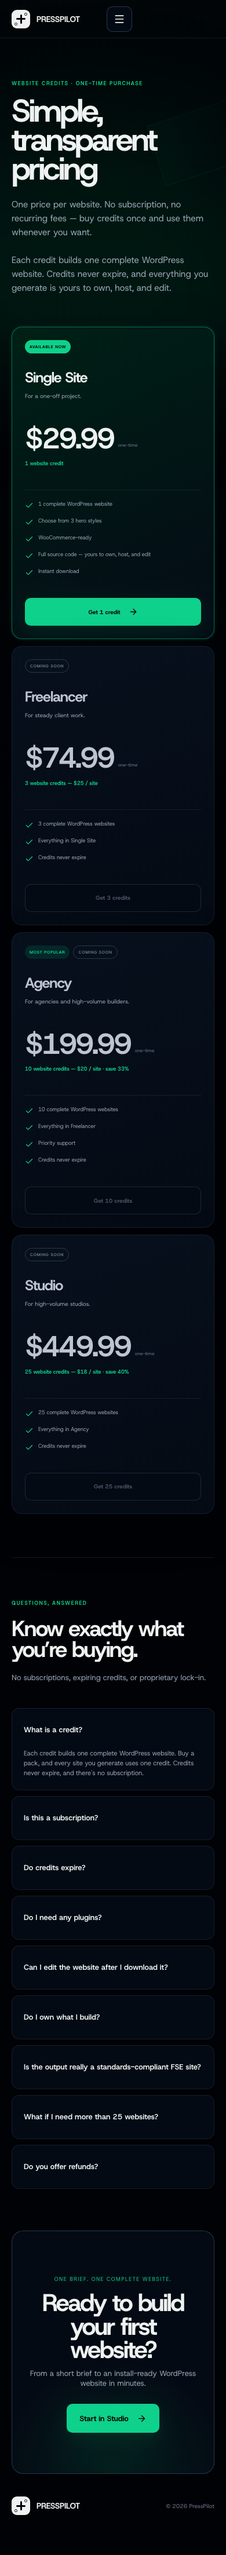
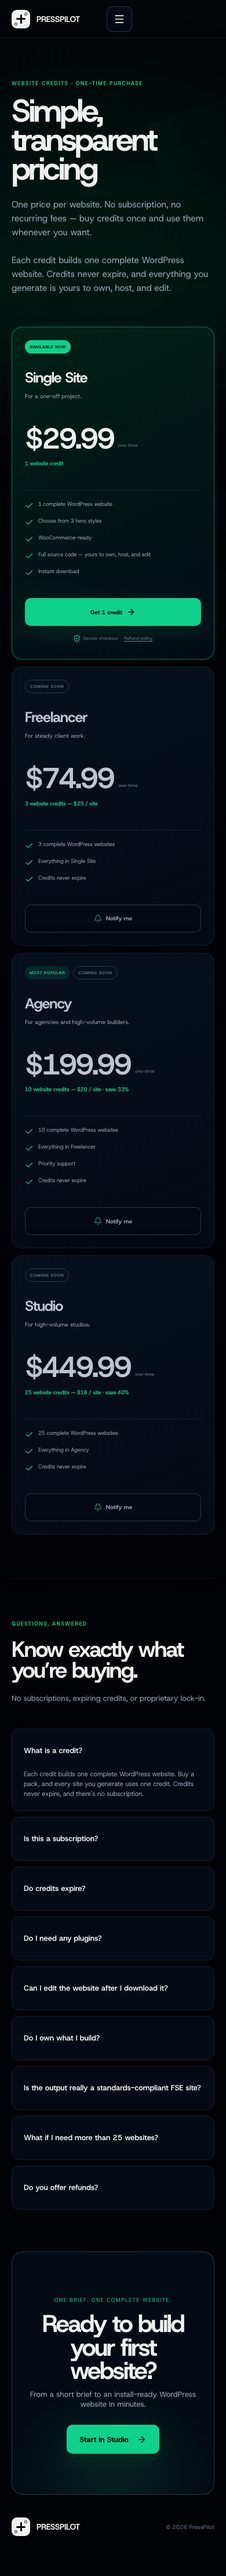
feat: capture pricing pack interest

diff --git a/src/styles/pages.css b/src/styles/pages.css
@@ -10,7 +10,10 @@
 .pricing-tier-card__badges { min-height: 25px; display: flex; flex-wrap: wrap; align-items: start; gap: 6px; }.pricing-tier-card__badges span { min-height: 23px; padding: 0 8px; display: inline-flex; align-items: center; border-radius: 999px; font-size: 7px; font-weight: 760; letter-spacing: .11em; text-transform: uppercase; }.pricing-tier-card__available { background: var(--emerald); color: var(--canvas-deep); }.pricing-tier-card__coming { border: 1px solid var(--line-bright); color: var(--quiet); }.pricing-tier-card__popular { background: oklch(0.69 0.15 165 / .14); color: var(--emerald); }
 .pricing-tier-card header { margin-top: 23px; }.pricing-tier-card h2 { margin: 0; font-size: 25px; letter-spacing: -.045em; }.pricing-tier-card header p { min-height: 36px; margin: 8px 0 0; color: var(--muted); font-size: 10px; line-height: 1.5; }
 .pricing-tier-card__price { margin-top: 24px; display: flex; align-items: end; gap: 8px; }.pricing-tier-card__price strong { font-size: clamp(38px,3.3vw,50px); line-height: .85; letter-spacing: -.07em; white-space: nowrap; }.pricing-tier-card__price span { padding-bottom: 4px; color: var(--quiet); font-size: 8px; }.pricing-tier-card__credits { min-height: 31px; margin: 16px 0 0; color: var(--emerald); font-size: 9px; font-weight: 700; line-height: 1.45; }
-.pricing-tier-card ul { list-style: none; margin: 20px 0 24px; padding: 18px 0 0; display: grid; gap: 13px; border-top: 1px solid var(--line); }.pricing-tier-card li { display: flex; align-items: start; gap: 8px; color: var(--muted); font-size: 9px; line-height: 1.45; }.pricing-tier-card li svg { flex: 0 0 auto; margin-top: 1px; color: var(--emerald); }.pricing-tier-card__action { width: 100%; min-height: 48px; margin-top: auto; display: inline-flex; align-items: center; justify-content: center; border: 1px solid var(--line-bright); border-radius: 10px; background: var(--surface-quiet); color: var(--quiet); font: inherit; font-size: 10px; font-weight: 740; }.pricing-tier-card button.pricing-tier-card__action { cursor: not-allowed; opacity: .68; }.pricing-tier-card .marketing-button.pricing-tier-card__action { border: 0; background: var(--emerald); color: var(--canvas-deep); opacity: 1; }
+.pricing-tier-card ul { list-style: none; margin: 20px 0 24px; padding: 18px 0 0; display: grid; gap: 13px; border-top: 1px solid var(--line); }.pricing-tier-card li { display: flex; align-items: start; gap: 8px; color: var(--muted); font-size: 9px; line-height: 1.45; }.pricing-tier-card li svg { flex: 0 0 auto; margin-top: 1px; color: var(--emerald); }.pricing-tier-card__action { width: 100%; min-height: 48px; margin-top: auto; display: inline-flex; align-items: center; justify-content: center; gap: 7px; border: 1px solid var(--line-bright); border-radius: 10px; background: var(--surface-quiet); color: var(--quiet); font: inherit; font-size: 10px; font-weight: 740; }.pricing-tier-card button.pricing-tier-card__notify { color: var(--muted); cursor: pointer; opacity: 1; transition: border-color .18s var(--ease-out), color .18s var(--ease-out), background .18s var(--ease-out); }.pricing-tier-card button.pricing-tier-card__notify svg { color: var(--emerald); opacity: .72; }.pricing-tier-card button.pricing-tier-card__notify:hover { border-color: oklch(0.68 0.13 165 / .5); background: oklch(0.22 0.04 170 / .45); color: var(--text); }.pricing-tier-card .marketing-button.pricing-tier-card__action { border: 0; background: var(--emerald); color: var(--canvas-deep); opacity: 1; }
+.pricing-tier-card__reassurance { min-height: 27px; margin: 8px 0 -12px; display: flex; align-items: center; justify-content: center; gap: 4px; color: var(--quiet); font-size: 8px; }.pricing-tier-card__reassurance svg { color: var(--emerald); }.pricing-tier-card__reassurance a { color: inherit; text-decoration: underline; text-underline-offset: 2px; }
+.pricing-waitlist { width: 100%; margin-top: auto; padding: 13px; display: grid; grid-template-columns: 1fr auto; gap: 8px; border: 1px solid oklch(0.68 0.13 165 / .28); border-radius: 11px; background: oklch(0.12 0.028 255 / .72); }.pricing-waitlist label { grid-column: 1/-1; color: var(--muted); font-size: 8px; font-weight: 680; }.pricing-waitlist input { min-width: 0; min-height: 46px; padding: 0 11px; border: 1px solid var(--line-bright); border-radius: 8px; background: var(--canvas-deep); color: var(--text); font: inherit; font-size: 10px; outline: 0; }.pricing-waitlist input:focus { border-color: var(--emerald); box-shadow: 0 0 0 3px oklch(0.7 0.15 165 / .1); }.pricing-waitlist__submit { min-height: 46px; padding: 0 12px; display: inline-flex; align-items: center; justify-content: center; gap: 5px; border: 0; border-radius: 8px; background: oklch(0.72 0.16 165 / .14); color: var(--emerald); font: inherit; font-size: 8px; font-weight: 750; cursor: pointer; }.pricing-waitlist > div { grid-column: 1/-1; display: flex; align-items: center; justify-content: space-between; gap: 8px; }.pricing-waitlist > div small { color: var(--quiet); font-size: 7px; }.pricing-waitlist > div button { min-height: 44px; padding: 0 6px; border: 0; background: transparent; color: var(--muted); font: inherit; font-size: 8px; text-decoration: underline; text-underline-offset: 2px; cursor: pointer; }
+.pricing-waitlist-success { min-height: 76px; margin-top: auto; padding: 14px; display: flex; align-items: start; gap: 9px; border: 1px solid oklch(0.7 0.15 165 / .32); border-radius: 11px; background: oklch(0.23 0.06 165 / .3); color: var(--emerald); }.pricing-waitlist-success > svg { flex: 0 0 auto; }.pricing-waitlist-success strong, .pricing-waitlist-success small { display: block; }.pricing-waitlist-success strong { font-size: 9px; }.pricing-waitlist-success small { margin-top: 4px; color: var(--muted); font-size: 8px; line-height: 1.4; }
 .page-section { width: min(1200px, calc(100% - 64px)); margin: 0 auto; padding: 100px 0; border-top: 1px solid var(--line); }.page-section__intro { display: grid; grid-template-columns: 1fr minmax(280px, 400px); gap: 20px 70px; align-items: end; margin-bottom: 42px; }.page-section__intro > span { grid-column: 1 / -1; margin: 0; }.page-section__intro h2 { margin: 0; font-size: clamp(38px, 4.6vw, 62px); line-height: .96; letter-spacing: -.055em; }.page-section__intro > p { margin: 0; color: var(--muted); font-size: 13px; line-height: 1.55; }
 .inclusion-atlas { display: grid; grid-template-columns: repeat(3,1fr); gap: 12px; }.inclusion-atlas article { min-height: 225px; padding: 25px; border: 1px solid var(--line); border-radius: 15px; background: linear-gradient(145deg,var(--surface-quiet),oklch(0.12 0.025 255)); }.inclusion-atlas svg { color: var(--emerald); }.inclusion-atlas h3 { margin: 64px 0 9px; font-size: 16px; }.inclusion-atlas p { margin: 0; color: var(--muted); font-size: 11px; line-height: 1.55; }
 .pricing-faq { padding-bottom: 110px; }.faq-grid { display: grid; grid-template-columns: 1fr 1fr; gap: 10px; }.faq-grid details { min-height: 76px; padding: 0 20px; border: 1px solid var(--line); border-radius: 13px; background: var(--surface-quiet); }.faq-grid summary { min-height: 74px; display: flex; align-items: center; cursor: pointer; font-size: 13px; font-weight: 650; }.faq-grid p { margin: -5px 0 20px; color: var(--muted); font-size: 11px; line-height: 1.55; }.faq-grid p a { color: var(--emerald); text-decoration: underline; text-underline-offset: 3px; }
@@ -21,4 +24,4 @@
 .project-atlas { display: grid; grid-template-columns: repeat(3,1fr); gap: 14px; }.project-card { overflow: hidden; border: 1px solid var(--line-bright); border-radius: 16px; background: linear-gradient(180deg,var(--surface),var(--surface-quiet)); box-shadow: 0 22px 60px #0004; }.project-card__preview { position: relative; aspect-ratio: 1.63; overflow: hidden; background: var(--canvas); }.project-card__preview img { width: 100%; height: 100%; display: block; object-fit: cover; }.project-card__preview > span { position: absolute; inset-inline-end: 12px; inset-block-end: 12px; padding: 7px 9px; border: 1px solid #ffffff2e; border-radius: 999px; background: #07101dd9; color: #fff; font-size: 8px; backdrop-filter: blur(8px); }.project-card__body { padding: 20px; }.project-card__status { display: flex; align-items: center; gap: 7px; color: var(--emerald); font-size: 8px; text-transform: uppercase; letter-spacing: .12em; }.project-card__status i { width: 6px; height: 6px; border-radius: 50%; background: currentColor; box-shadow: 0 0 0 4px oklch(0.65 0.15 160 / .1); }.project-card h2 { margin: 13px 0 4px; font-size: 21px; letter-spacing: -.035em; }.project-card p, .project-card small { color: var(--quiet); font-size: 10px; }.project-card p { margin: 0 0 5px; }.project-card__body > div:last-child { margin-top: 23px; padding-top: 16px; display: flex; justify-content: space-between; align-items: center; border-top: 1px solid var(--line); }.project-card__body > div:last-child a { min-height: 44px; display: inline-flex; align-items: center; gap: 8px; color: var(--text); font-size: 11px; font-weight: 680; }.project-card button { width: 44px; height: 44px; display: grid; place-items: center; border: 1px solid var(--line); border-radius: 9px; background: var(--surface-quiet); color: var(--muted); cursor: pointer; }
 @media (max-width: 1100px) { .pricing-tier-grid { grid-template-columns: 1fr 1fr; }.pricing-tier-card { min-height: 500px; }.pricing-tier-card__price strong { font-size: 50px; } }
 @media (max-width: 900px) { .signin-layout { grid-template-columns: 1fr; gap: 55px; }.signin-card { width: min(500px,100%); }.project-atlas { grid-template-columns: 1fr 1fr; }.inclusion-atlas { grid-template-columns: 1fr 1fr; }.page-section__intro { grid-template-columns: 1fr; } }
-@media (max-width: 650px) { .page-hero { width: calc(100% - 40px); padding: 72px 0 55px; text-align: start; }.page-hero h1 { font-size: clamp(49px,14vw,65px); }.page-hero h1 em { display: inline; }.page-hero--pricing > p:not(.page-eyebrow) { margin-inline: 0; }.pricing-tier-grid, .page-section, .signin-layout, .projects-page { width: calc(100% - 40px); }.pricing-tier-grid { grid-template-columns: 1fr; margin-bottom: 75px; }.pricing-tier-card { min-height: 0; }.pricing-tier-card__price strong { font-size: 50px; }.pricing-tier-card__action { margin-top: 12px; }.inclusion-atlas, .faq-grid, .project-atlas, .dashboard-summary { grid-template-columns: 1fr; }.page-section { padding: 72px 0; }.signin-layout { padding: 60px 0; }.signin-context h1 { font-size: 58px; }.signin-card { padding: 24px 20px; }.projects-page { padding-top: 38px; }.projects-heading { align-items: start; flex-direction: column; gap: 25px; }.projects-heading .primary-action { width: 100%; justify-content: center; }.dashboard-summary > div { border-inline-end: 0; border-bottom: 1px solid var(--line); }.dashboard-summary > div:last-child { border-bottom: 0; } }
+@media (max-width: 650px) { .page-hero { width: calc(100% - 40px); padding: 72px 0 55px; text-align: start; }.page-hero h1 { font-size: clamp(49px,14vw,65px); }.page-hero h1 em { display: inline; }.page-hero--pricing > p:not(.page-eyebrow) { margin-inline: 0; }.pricing-tier-grid, .page-section, .signin-layout, .projects-page { width: calc(100% - 40px); }.pricing-tier-grid { grid-template-columns: 1fr; margin-bottom: 75px; }.pricing-tier-card { min-height: 0; }.pricing-tier-card__price strong { font-size: 50px; }.pricing-tier-card__action { margin-top: 12px; }.pricing-waitlist { margin-top: 12px; grid-template-columns: 1fr; }.pricing-waitlist label, .pricing-waitlist > div { grid-column: 1; }.pricing-tier-card__reassurance { margin-bottom: 0; }.inclusion-atlas, .faq-grid, .project-atlas, .dashboard-summary { grid-template-columns: 1fr; }.page-section { padding: 72px 0; }.signin-layout { padding: 60px 0; }.signin-context h1 { font-size: 58px; }.signin-card { padding: 24px 20px; }.projects-page { padding-top: 38px; }.projects-heading { align-items: start; flex-direction: column; gap: 25px; }.projects-heading .primary-action { width: 100%; justify-content: center; }.dashboard-summary > div { border-inline-end: 0; border-bottom: 1px solid var(--line); }.dashboard-summary > div:last-child { border-bottom: 0; } }

diff --git a/src/components/PricingPage.tsx b/src/components/PricingPage.tsx
@@ -1,4 +1,5 @@
-import { ArrowRight, Check } from "lucide-react";
+import { useState } from "react";
+import { ArrowRight, Bell, Check, CheckCircle2, ShieldCheck } from "lucide-react";
 import { PublicPageShell } from "./PublicPageShell";
 
 const tiers = [
@@ -57,6 +58,9 @@ const faqs = [
 ] as const;
 
 export function PricingPage() {
+  const [openWaitlist, setOpenWaitlist] = useState<string | null>(null);
+  const [joinedWaitlists, setJoinedWaitlists] = useState<string[]>([]);
+
   return <PublicPageShell mainId="pricing-content" skipLabel="Skip to pricing" footerCta={{ eyebrow: "One brief. One complete website.", heading: "Ready to build your first website?", copy: "From a short brief to an install-ready WordPress website in minutes." }}>
     <section className="page-hero page-hero--pricing">
       <p className="page-eyebrow">Website credits · One-time purchase</p>
@@ -75,15 +79,27 @@ export function PricingPage() {
         <div className="pricing-tier-card__price"><strong>{tier.price}</strong><span>one-time</span></div>
         <p className="pricing-tier-card__credits">{tier.creditLine}</p>
         <ul>{tier.features.map((feature) => <li key={feature}><Check size={15} /> <span>{feature}</span></li>)}</ul>
-        {tier.available
-          ? <a className="marketing-button pricing-tier-card__action" href="/studio?step=details">{tier.action} <ArrowRight size={16} /></a>
-          : <button className="pricing-tier-card__action" type="button" disabled>{tier.action}</button>}
+        {tier.available ? <>
+          <a className="marketing-button pricing-tier-card__action" href="/studio?step=details">{tier.action} <ArrowRight size={16} /></a>
+          <p className="pricing-tier-card__reassurance"><ShieldCheck size={13} /> Secure checkout <span>·</span> <a href="#refund-policy">Refund policy</a></p>
+        </> : joinedWaitlists.includes(tier.name) ? <div className="pricing-waitlist-success" role="status">
+          <CheckCircle2 size={18} /><span><strong>You’re on the {tier.name} waitlist.</strong><small>We’ll email you when this credit pack is ready.</small></span>
+        </div> : openWaitlist === tier.name ? <form className="pricing-waitlist" onSubmit={(event) => {
+          event.preventDefault();
+          setJoinedWaitlists((current) => [...current, tier.name]);
+          setOpenWaitlist(null);
+        }}>
+          <label htmlFor={`waitlist-${tier.name}`}>Email for {tier.name} updates</label>
+          <input id={`waitlist-${tier.name}`} name="email" type="email" autoComplete="email" placeholder="you@company.com" autoFocus required />
+          <button className="pricing-waitlist__submit" type="submit" aria-label={`Join ${tier.name} waitlist`}>Join waitlist <ArrowRight size={14} /></button>
+          <div><small>Pack updates only. No spam.</small><button type="button" onClick={() => setOpenWaitlist(null)}>Not now</button></div>
+        </form> : <button className="pricing-tier-card__action pricing-tier-card__notify" type="button" aria-label={`Notify me about ${tier.name}`} onClick={() => setOpenWaitlist(tier.name)}><Bell size={14} /> Notify me</button>}
       </article>)}
     </section>
 
     <section className="pricing-faq page-section">
       <div className="page-section__intro"><span>Questions, answered</span><h2>Know exactly what you’re buying.</h2><p>No subscriptions, expiring credits, or proprietary lock-in.</p></div>
-      <div className="faq-grid">{faqs.map(([question, answer], index) => <details open={index === 0} key={question}><summary>{question}</summary><p>{answer}</p></details>)}</div>
+      <div className="faq-grid">{faqs.map(([question, answer], index) => <details id={question === "Do you offer refunds?" ? "refund-policy" : undefined} open={index === 0} key={question}><summary>{question}</summary><p>{answer}</p></details>)}</div>
     </section>
 
   </PublicPageShell>;

diff --git a/src/components/PublicPages.test.tsx b/src/components/PublicPages.test.tsx
@@ -1,9 +1,9 @@
-import { render, screen } from "@testing-library/react";
+import { fireEvent, render, screen } from "@testing-library/react";
 import { PricingPage } from "./PricingPage";
 import { ProjectsPage } from "./ProjectsPage";
 import { SignInPage } from "./SignInPage";
 
-test("presents all credit packs with only Single Site available at launch", () => {
+test("presents one live purchase and tier-specific waitlist capture for upcoming packs", () => {
   render(<PricingPage />);
   expect(screen.getByRole("heading", { name: "Simple, transparent pricing" })).toBeInTheDocument();
   for (const tier of ["Single Site", "Freelancer", "Agency", "Studio"]) {
@@ -14,14 +14,22 @@ test("presents all credit packs with only Single Site available at launch", () =
   }
 
   expect(screen.getByRole("link", { name: "Get 1 credit" })).toHaveAttribute("href", "/studio?step=details");
-  for (const label of ["Get 3 credits", "Get 10 credits", "Get 25 credits"]) {
-    expect(screen.getByRole("button", { name: label })).toBeDisabled();
+  expect(screen.getByText(/Secure checkout/)).toBeInTheDocument();
+  expect(screen.getByRole("link", { name: "Refund policy" })).toHaveAttribute("href", "#refund-policy");
+  for (const tier of ["Freelancer", "Agency", "Studio"]) {
+    expect(screen.getByRole("button", { name: `Notify me about ${tier}` })).toBeEnabled();
   }
   expect(screen.getAllByText("Coming soon")).toHaveLength(3);
   expect(screen.getByText("Most popular")).toBeInTheDocument();
   expect(screen.getByText(/Credits never expire, and there's no subscription\./)).toBeInTheDocument();
   expect(screen.getByText("Is the output really a standards-compliant FSE site?")).toBeInTheDocument();
   expect(screen.getAllByRole("link", { name: /Start in Studio/ }).some((link) => link.getAttribute("href") === "/studio?step=details")).toBe(true);
+
+  fireEvent.click(screen.getByRole("button", { name: "Notify me about Agency" }));
+  const email = screen.getByRole("textbox", { name: "Email for Agency updates" });
+  fireEvent.change(email, { target: { value: "owner@example.com" } });
+  fireEvent.click(screen.getByRole("button", { name: "Join Agency waitlist" }));
+  expect(screen.getByRole("status")).toHaveTextContent("on the Agency waitlist");
 });
 
 test("gives returning users an accessible sign-in form", () => {

diff --git a/tests/complete-pages.spec.ts b/tests/complete-pages.spec.ts
@@ -50,13 +50,18 @@ test("key page and Studio controls meet the 44px target gate", async ({ page }) 
   expect((await page.getByRole("button", { name: "Sign in" }).boundingBox())!.height).toBeGreaterThanOrEqual(44);
 });
 
-test("pricing exposes one live credit pack and three disabled launch packs", async ({ page }) => {
+test("pricing exposes one live purchase and captures upcoming-pack interest", async ({ page }) => {
   await page.goto("/pricing");
   await expect(page.getByRole("link", { name: "Get 1 credit" })).toHaveAttribute("href", "/studio?step=details");
-  for (const label of ["Get 3 credits", "Get 10 credits", "Get 25 credits"]) {
-    await expect(page.getByRole("button", { name: label })).toBeDisabled();
+  await expect(page.getByText(/Secure checkout/)).toBeVisible();
+  for (const tier of ["Freelancer", "Agency", "Studio"]) {
+    await expect(page.getByRole("button", { name: `Notify me about ${tier}` })).toBeEnabled();
   }
   await expect(page.getByText("Coming soon")).toHaveCount(3);
+  await page.getByRole("button", { name: "Notify me about Agency" }).click();
+  await page.getByRole("textbox", { name: "Email for Agency updates" }).fill("owner@example.com");
+  await page.getByRole("button", { name: "Join Agency waitlist" }).click();
+  await expect(page.getByRole("status")).toContainText("on the Agency waitlist");
 });
 
 test("Step 2 shows generation progress before replacing the PressPilot preview", async ({ page }) => {

diff --git a/tests/complete-pages-visual.spec.ts b/tests/complete-pages-visual.spec.ts
@@ -32,3 +32,14 @@ for (const [name, url, heading, width, height] of captures) {
     await page.screenshot({ path: `${outputDirectory}/${name}.png`, fullPage: true });
   });
 }
+
+test("captures app-pricing-waitlist", async ({ page }) => {
+  await page.setViewportSize({ width: 1440, height: 1000 });
+  await page.goto("/pricing", { waitUntil: "networkidle" });
+  await page.evaluate(() => document.fonts.ready);
+  await page.getByRole("button", { name: "Notify me about Agency" }).click();
+  await page.evaluate(() => { (document.activeElement as HTMLElement | null)?.blur(); window.scrollTo(0, 0); });
+  await page.addStyleTag({ content: "*,*::before,*::after{animation:none!important;transition:none!important}" });
+  await expect(page.getByRole("textbox", { name: "Email for Agency updates" })).toBeVisible();
+  await page.screenshot({ path: `${outputDirectory}/app-pricing-waitlist.png`, fullPage: true });
+});

diff --git a/docs/handoff/PRESSPILOT_COMPLETE_UI_CODING_AGENT_HANDOFF.md b/docs/handoff/PRESSPILOT_COMPLETE_UI_CODING_AGENT_HANDOFF.md
@@ -1,6 +1,6 @@
 # PressPilot Complete UI — Coding Agent Handoff
 
-**Version:** 1.1
+**Version:** 1.2
 **Date:** 2026-07-19  
 **Prototype repository:** `Odjango/PressPilot-new-UI`  
 **Prototype branch:** `agent/studio-refine-prototype`
@@ -33,7 +33,7 @@ PressPilot prepares:
 
 The buyer can install the website on a compatible WordPress host, edit it with WordPress Full Site Editing, and own the delivered website.
 
-Commercial model: **one credit builds one complete website · credits never expire · no subscription**. At launch, only **Single Site — $29.99 for one credit** is purchasable. Freelancer, Agency, and Studio packs are visible but disabled as Coming soon.
+Commercial model: **one credit builds one complete website · credits never expire · no subscription**. At launch, only **Single Site — $29.99 for one credit** is purchasable. Freelancer, Agency, and Studio remain Coming soon and collect tier-specific waitlist interest through `Notify me`.
 
 ## 3. Terminology
 
@@ -66,7 +66,7 @@ The word `theme` may remain only where WordPress technical internals require it,
 | URL | Component | Visual capture |
 | --- | --- | --- |
 | `/` | `MarketingHome` | `artifacts/screenshots/presspilot-home-desktop.png` |
-| `/pricing` | `PricingPage` | `artifacts/screenshots/app-pricing-desktop.png`, `app-pricing-mobile.png` |
+| `/pricing` | `PricingPage` | `artifacts/screenshots/app-pricing-desktop.png`, `app-pricing-mobile.png`, `app-pricing-waitlist.png` |
 | `/signin` | `SignInPage` | `artifacts/screenshots/app-signin-desktop.png` |
 | `/projects` | `ProjectsPage` | `artifacts/screenshots/app-projects-desktop.png` |
 | `/studio?step=details` | `BusinessDetailsWorkspace` | `artifacts/screenshots/studio-step-1-business-details.png` |
@@ -186,7 +186,7 @@ The prototype uses local state and sample data. Connect these seams to productio
 | Sign in | Production authentication and password recovery |
 | Projects page | Production project query, statuses, and permissions |
 | Single Site “Get 1 credit” | Production one-credit checkout and entitlement flow |
-| Freelancer, Agency, Studio actions | Keep disabled and visibly Coming soon for launch; do not attach checkout handlers |
+| Freelancer, Agency, Studio `Notify me` | Production waitlist endpoint; submit email, requested pack, source page, and consent timestamp without granting credits or starting checkout |
 
 Do not replace the current production gallery-preview system with the prototype miniature. The approved Studio preview surface should be connected to that system after visual migration, as the user explicitly requested.
 
@@ -197,12 +197,15 @@ Public primary CTA: **Start in Studio**.
 Pricing launch contract:
 
 - Single Site — $29.99 one-time — 1 credit — active `Get 1 credit` purchase action
-- Freelancer — $74.99 one-time — 3 credits — Coming soon, disabled
-- Agency — $199.99 one-time — 10 credits — Most popular + Coming soon, disabled
-- Studio — $449.99 one-time — 25 credits — Coming soon, disabled
+- Freelancer — $74.99 one-time — 3 credits — Coming soon with `Notify me`
+- Agency — $199.99 one-time — 10 credits — Most popular + Coming soon with `Notify me`
+- Studio — $449.99 one-time — 25 credits — Coming soon with `Notify me`
 - One credit creates one complete website.
 - Credits never expire.
 - There is no subscription and no automatic renewal.
+- `Notify me` opens an inline, tier-specific email form. It must never initiate checkout or imply the pack is available.
+- Successful capture confirms the exact requested tier in place. Production must handle duplicate addresses, API failure, consent logging, and retry without losing the entered address.
+- The Single Site action retains `Secure checkout · Refund policy` directly beneath `Get 1 credit`.
 
 Use contextual internal actions:
 
@@ -344,6 +347,7 @@ Not implemented in this UI repository:
 - Database persistence
 - Logo upload/storage
 - Checkout or entitlement wiring (the Single Site control is visually active but remains a prototype route)
+- Waitlist persistence or email delivery (the prototype demonstrates the complete capture and success states locally)
 - Production website generation
 - Generation failure/retry handling
 - Real ZIP creation/download
@@ -369,7 +373,9 @@ These are deliberate integration boundaries, not missing visual pages.
 - [ ] Key targets are at least 44px and keyboard focus is visible.
 - [ ] Reduced-motion mode remains stable.
 - [ ] Generation errors and retry states are added using real backend results.
-- [ ] Pricing shows four tiers, with only Single Site purchasable at launch and all other pack controls natively disabled.
+- [ ] Pricing shows four tiers, with only Single Site purchasable at launch.
+- [ ] Each Coming soon pack collects a tier-specific email through `Notify me` and never enters checkout.
+- [ ] Waitlist submissions persist the email, requested pack, source, and consent timestamp and expose honest error/retry states.
 - [ ] ZIP download uses the production artifact endpoint.
 - [ ] The green X/star is absent.
 - [ ] Visual parity is compared against `artifacts/screenshots/` before release.

diff --git a/README.md b/README.md
@@ -16,7 +16,7 @@ Open `http://localhost:4173`.
 ## Main routes
 
 - `/` — public homepage
-- `/pricing` — four-tier credit pricing page; only Single Site is enabled for launch
+- `/pricing` — four-tier credit pricing page; Single Site is purchasable and upcoming packs collect waitlist interest
 - `/signin` — sign-in page
 - `/projects` — project dashboard
 - `/studio?step=details` — Studio Step 1
